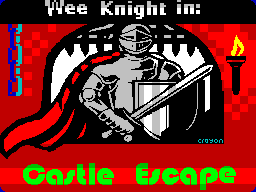
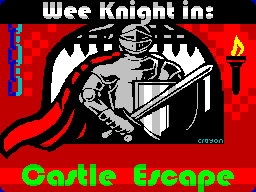
Minor title screen tweaks.

Changed region(s): [[0.1562, 0.0, 0.8438, 0.125], [0.5, 0.8438, 0.9375, 1.0], [0.0625, 0.8438, 0.4688, 0.9688]]

diff --git a/README.md b/README.md
@@ -8,7 +8,7 @@ A ZX Spectrum game written using [Z88DK](https://github.com/z88dk/z88dk) and [FU
 * screen$ and menu art - Created by [crayon](https://github.com/jardafis)
   * Converted to .scr with [PNG-to-SCR](https://github.com/MatejJan/PNG-to-SCR)
 * Sprites & Tiles - Supported by [Carnivac](https://zxart.ee/eng/authors/c/carnivac/)
-* Font - by [DamienG](https://damieng.com/typography/zx-origins/)
+* Torment font - by [DamienG](https://damieng.com/typography/zx-origins/)
 * Music - Borrowed from [WYZTracker](https://github.com/AugustoRuiz/WYZTracker)
 * Sound Effects - Created using [WYZTracker](https://github.com/AugustoRuiz/WYZTracker)
 * Levels - Designed with [Tiled](https://www.mapeditor.org/) by [IrataHack](mailto:iratahack@digitalxfer.com)
